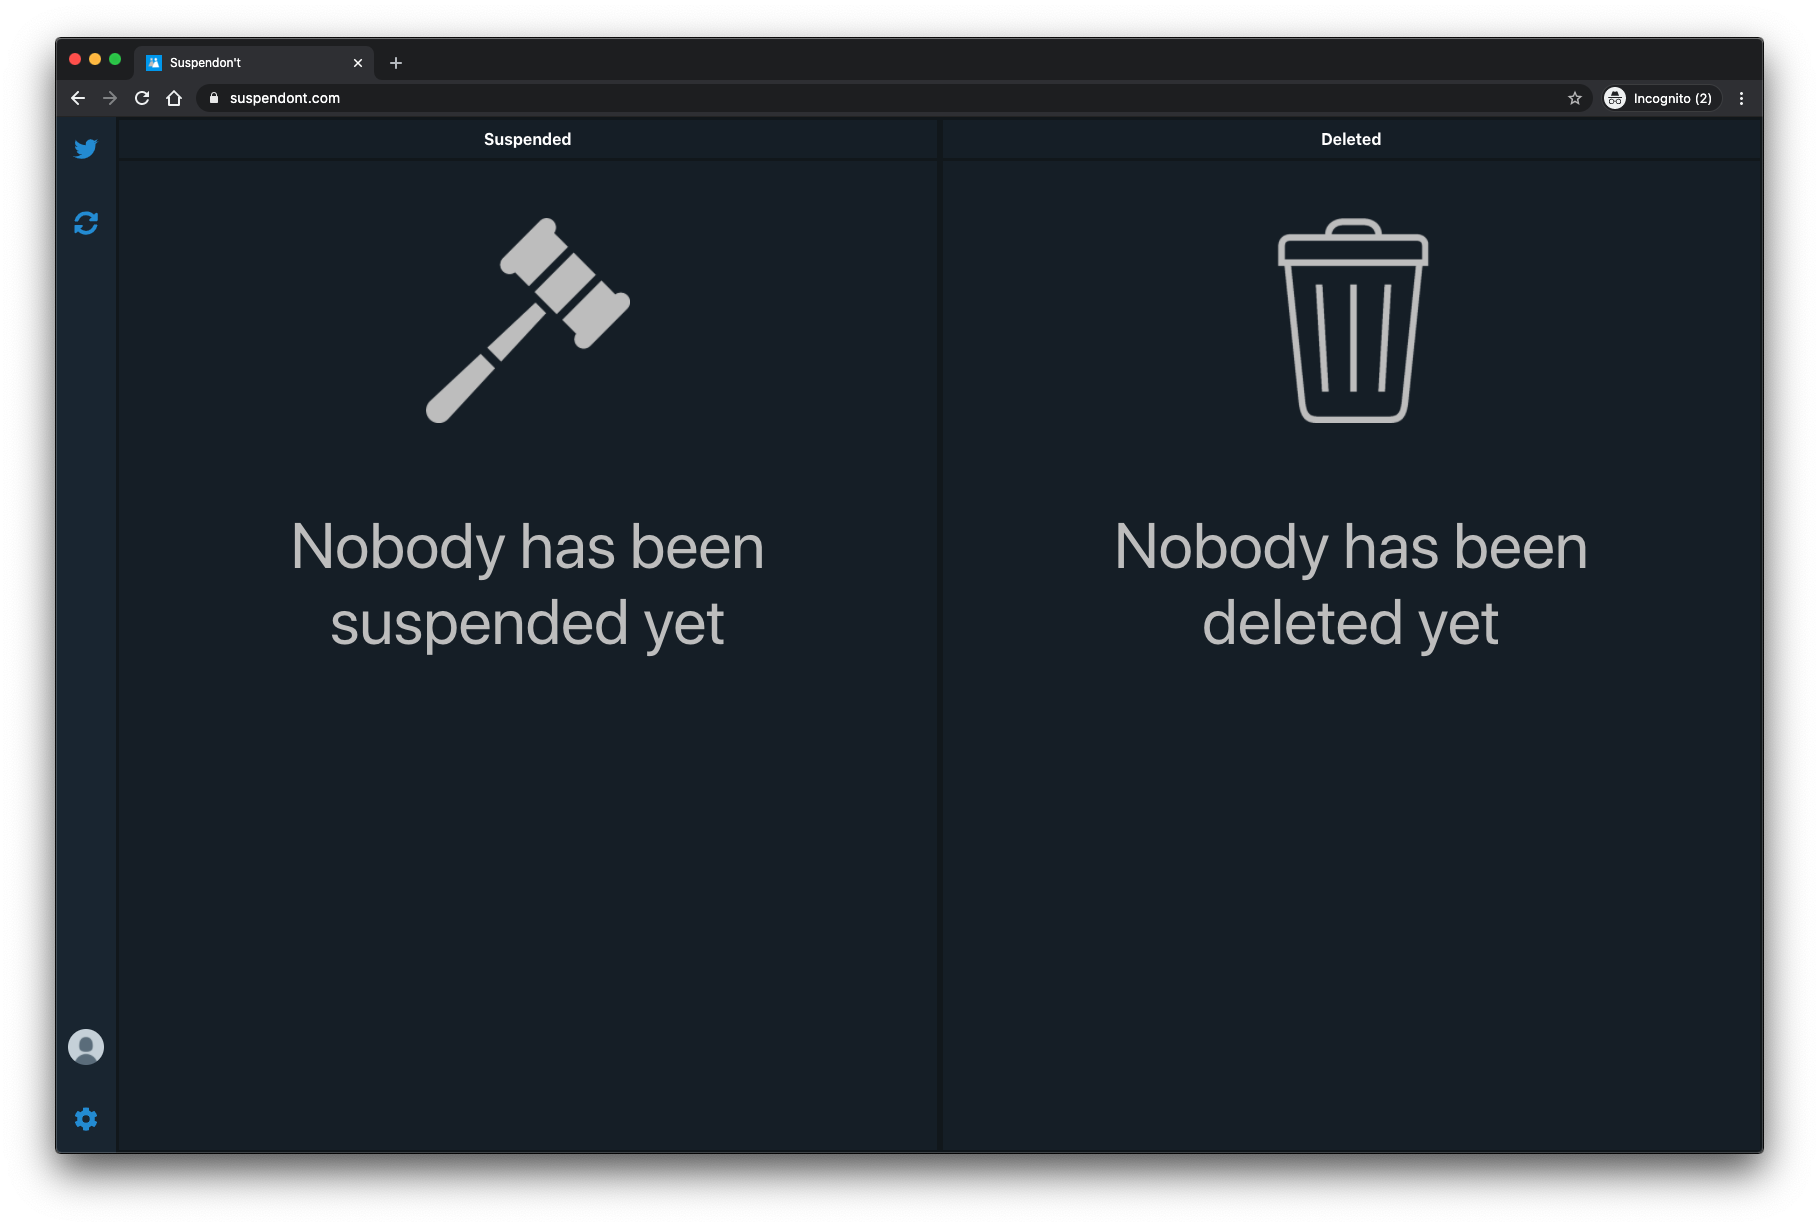
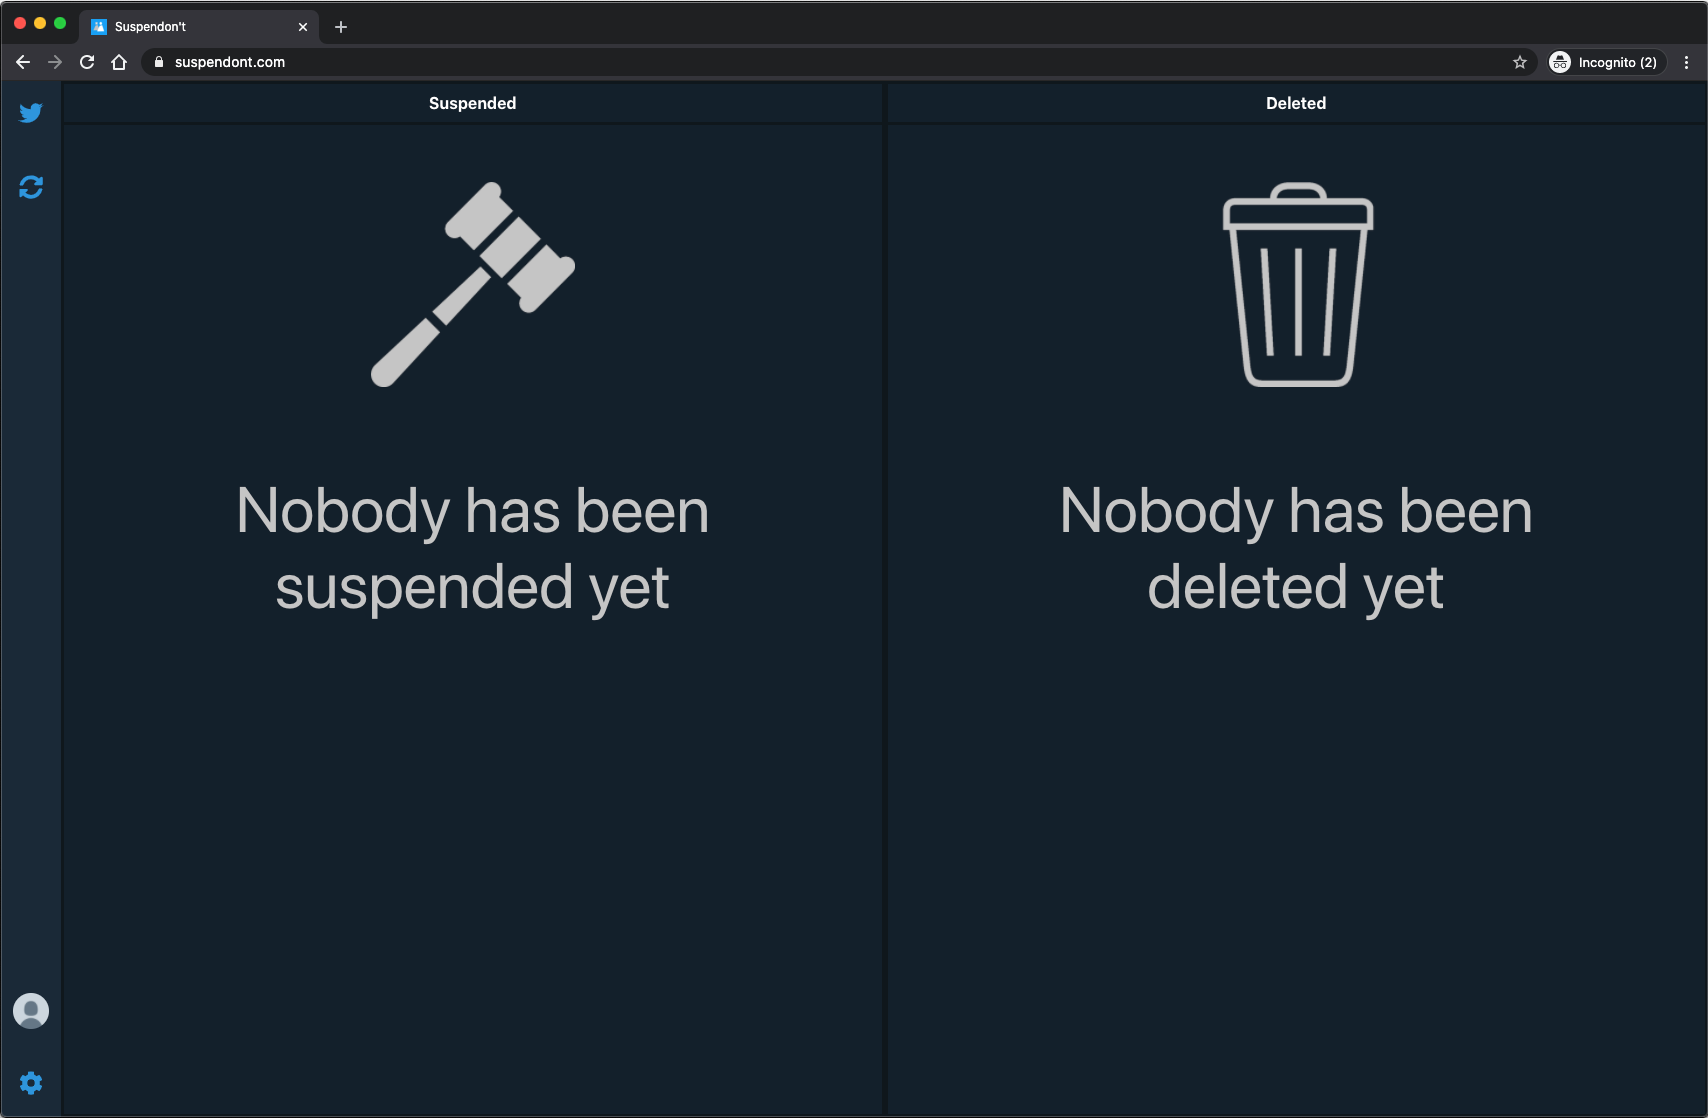
Updated suspendont.png size and fixed some styles

diff --git a/src/App.js b/src/App.js
@@ -1,13 +1,27 @@
 import React from 'react';
-import Main from './components/Main';
+import { Switch, Route } from 'react-router-dom';
 
+import Home from './screens/Home';
+import Projects from './screens/Projects';
+import NotFound from './screens/404';
 
-function App() {
+const App = () => {
   return (
-    <div>
-      <Main/>
-    </div>
+    <Switch>
+      <Route exact path={'/'} component={Home}/>
+      <Route exact path={'/projects'} component={Projects}/>
+      <Route path={'*'} component={NotFound}/>
+    </Switch>
   );
-}
+};
+
+window.mobileCheck = function() {
+  let check = false;
+  // Weird regex from http://detectmobilebrowsers.com for detecting mobile browsers
+  // eslint-disable-next-line no-useless-escape
+  (function(a){if(/(android|bb\d+|meego).+mobile|avantgo|bada\/|blackberry|blazer|compal|elaine|fennec|hiptop|iemobile|ip(hone|od)|iris|kindle|lge |maemo|midp|mmp|mobile.+firefox|netfront|opera m(ob|in)i|palm( os)?|phone|p(ixi|re)\/|plucker|pocket|psp|series(4|6)0|symbian|treo|up\.(browser|link)|vodafone|wap|windows ce|xda|xiino/i.test(a)||/1207|6310|6590|3gso|4thp|50[1-6]i|770s|802s|a wa|abac|ac(er|oo|s\-)|ai(ko|rn)|al(av|ca|co)|amoi|an(ex|ny|yw)|aptu|ar(ch|go)|as(te|us)|attw|au(di|\-m|r |s )|avan|be(ck|ll|nq)|bi(lb|rd)|bl(ac|az)|br(e|v)w|bumb|bw\-(n|u)|c55\/|capi|ccwa|cdm\-|cell|chtm|cldc|cmd\-|co(mp|nd)|craw|da(it|ll|ng)|dbte|dc\-s|devi|dica|dmob|do(c|p)o|ds(12|\-d)|el(49|ai)|em(l2|ul)|er(ic|k0)|esl8|ez([4-7]0|os|wa|ze)|fetc|fly(\-|_)|g1 u|g560|gene|gf\-5|g\-mo|go(\.w|od)|gr(ad|un)|haie|hcit|hd\-(m|p|t)|hei\-|hi(pt|ta)|hp( i|ip)|hs\-c|ht(c(\-| |_|a|g|p|s|t)|tp)|hu(aw|tc)|i\-(20|go|ma)|i230|iac( |\-|\/)|ibro|idea|ig01|ikom|im1k|inno|ipaq|iris|ja(t|v)a|jbro|jemu|jigs|kddi|keji|kgt( |\/)|klon|kpt |kwc\-|kyo(c|k)|le(no|xi)|lg( g|\/(k|l|u)|50|54|\-[a-w])|libw|lynx|m1\-w|m3ga|m50\/|ma(te|ui|xo)|mc(01|21|ca)|m\-cr|me(rc|ri)|mi(o8|oa|ts)|mmef|mo(01|02|bi|de|do|t(\-| |o|v)|zz)|mt(50|p1|v )|mwbp|mywa|n10[0-2]|n20[2-3]|n30(0|2)|n50(0|2|5)|n7(0(0|1)|10)|ne((c|m)\-|on|tf|wf|wg|wt)|nok(6|i)|nzph|o2im|op(ti|wv)|oran|owg1|p800|pan(a|d|t)|pdxg|pg(13|\-([1-8]|c))|phil|pire|pl(ay|uc)|pn\-2|po(ck|rt|se)|prox|psio|pt\-g|qa\-a|qc(07|12|21|32|60|\-[2-7]|i\-)|qtek|r380|r600|raks|rim9|ro(ve|zo)|s55\/|sa(ge|ma|mm|ms|ny|va)|sc(01|h\-|oo|p\-)|sdk\/|se(c(\-|0|1)|47|mc|nd|ri)|sgh\-|shar|sie(\-|m)|sk\-0|sl(45|id)|sm(al|ar|b3|it|t5)|so(ft|ny)|sp(01|h\-|v\-|v )|sy(01|mb)|t2(18|50)|t6(00|10|18)|ta(gt|lk)|tcl\-|tdg\-|tel(i|m)|tim\-|t\-mo|to(pl|sh)|ts(70|m\-|m3|m5)|tx\-9|up(\.b|g1|si)|utst|v400|v750|veri|vi(rg|te)|vk(40|5[0-3]|\-v)|vm40|voda|vulc|vx(52|53|60|61|70|80|81|83|85|98)|w3c(\-| )|webc|whit|wi(g |nc|nw)|wmlb|wonu|x700|yas\-|your|zeto|zte\-/i.test(a.substr(0,4))) check = true;})(navigator.userAgent||navigator.vendor||window.opera);
+
+  return check;
+};
 
 export default App;

diff --git a/src/screens/Projects.js b/src/screens/Projects.js
@@ -27,7 +27,7 @@ function Projects() {
         </p>
         <FontAwesomeIcon icon={faChevronDown} className={'chevron1'}/>
         <div className={'backButton'}>
-          <div className={'backButtonIcon'} onClick={goToHome} title={'Go to Home Page'}
+          <div className={'backButtonIcon'} onClick={goToHome}
                style={{ display: 'flex', justifyContent: 'center', alignItems: 'center' }}>
             <FontAwesomeIcon icon={faArrowLeft} size={'2x'}/>
           </div>
@@ -55,7 +55,7 @@ function Projects() {
             ['Python', 'OpenCV', 'PyTorch', 'PHP', 'Google Cloud Platform']
           }/>
           <ProjectBlock title={`Suspendon't`} link={'https://github.com/cameronkinsella/suspendont'}
-                        color={'black'} src={suspendont} ratio={'67.45'} desc={
+                        color={'black'} src={suspendont} ratio={'65.45'} desc={
             <p>Suspendon't is a mobile and web app for tracking when your Twitter friends are suspended or delete their
               account.<br/><br/> The mobile app was built using <b>React Native</b> and is functional on both
               iOS and Android. The web app was build using <b>React</b>. A Node backend is used for communicating with

diff --git a/src/screens/Home.js b/src/screens/Home.js
@@ -94,7 +94,7 @@ function Home() {
           <ScrollAnimation animateIn={'bounce'}>
             <FontAwesomeIcon icon={faChevronDown} className={'chevron2'}/>
           </ScrollAnimation>
-          <FontAwesomeIcon title={'Go to Projects'} onClick={goToProjects} icon={faCode} size={'5x'} className={'code'}/>
+          <FontAwesomeIcon onClick={goToProjects} icon={faCode} size={'5x'} className={'code'}/>
         </div>
       </div>
     </div>

diff --git a/src/App.scss b/src/App.scss
@@ -166,6 +166,7 @@ html {
 }
 
 .backButtonIcon {
+  cursor: pointer;
   display: flex;
   justify-content: center;
   align-items: center;
@@ -233,6 +234,7 @@ html {
 }
 
 .code {
+  cursor: pointer;
   margin-top: 0.5em;
   transition: all 0.4s;
   color: #eeeeee;
